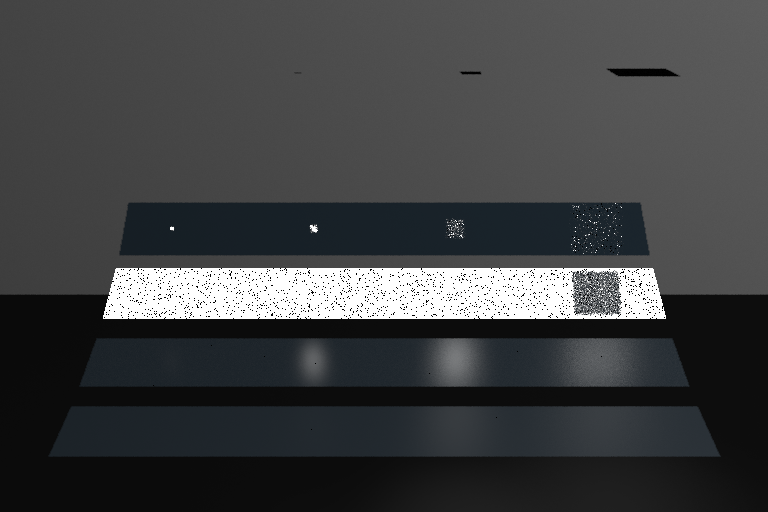
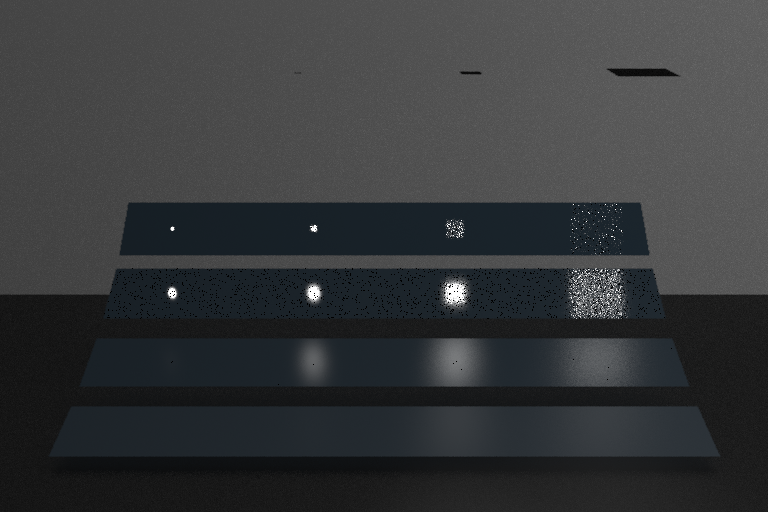
Good progress with MIS, platforms rendering correctly, light reflections too noisy, floor too dark

Changed region(s): [[0.125, 0.4062, 0.875, 0.625], [0.5625, 0.4375, 0.625, 0.4688]]

diff --git a/src/raytracer.cpp b/src/raytracer.cpp
@@ -1160,6 +1160,8 @@ glm::vec3 PathTracerFindColor(UniformGrid* grid, const Ray& ray, Scene* scene, C
 	float DNumerator = 0.1f;
 	float DDenominator = 0.1f;
 
+	float weight = 1.0f;
+
 	if (importanceSampling == "hemisphere")
 	{
 		brdf =
@@ -1220,7 +1222,7 @@ glm::vec3 PathTracerFindColor(UniformGrid* grid, const Ray& ray, Scene* scene, C
 					(intersection.hitObjectDiffuse / (float)M_PI) +
 					(intersection.hitObjectSpecular * ((intersection.hitObjectShininess + 2.0f) / (2.0f * (float)M_PI))) * spec;
 
-
+				weight = pSpec / pdf;
 
 			}
 			else
@@ -1260,7 +1262,9 @@ glm::vec3 PathTracerFindColor(UniformGrid* grid, const Ray& ray, Scene* scene, C
 			float pdfSpec = ((intersection.hitObjectShininess + 1.0f) / (2.0f * (float)M_PI)) *
 				std::pow(rDotWi, intersection.hitObjectShininess);
 
-			float pdf = pDiffuse * pdfDiffuse + pSpec * pdfSpec;
+			pdf = pDiffuse * pdfDiffuse + pSpec * pdfSpec;
+
+			weight = (pDiffuse * pdfDiffuse + pSpec * pdfSpec) > 0.0f ? (pDiffuse * pdfDiffuse) / (pDiffuse * pdfDiffuse + pSpec * pdfSpec) : 0.0f;
 		}
 		else if (intersection.brdf == "ggx")
 		{
@@ -1372,7 +1376,7 @@ glm::vec3 PathTracerFindColor(UniformGrid* grid, const Ray& ray, Scene* scene, C
 
 				brdf = fGGX +
 					(intersection.hitObjectDiffuse / (float)M_PI);
-
+				weight = (pDiffuse * (glm::dot(intersection.hitObjectNormal, wi) / (float)M_PI)) / pdf_ggx;
 
 
 			}
@@ -1448,6 +1452,8 @@ glm::vec3 PathTracerFindColor(UniformGrid* grid, const Ray& ray, Scene* scene, C
 
 				glm::vec3 fGGX = ((DNumerator / DDenominator) * fresnel * (Gv * Gv2)) / (4.0f * glm::dot(wi, intersection.hitObjectNormal) * glm::dot(wo, intersection.hitObjectNormal));
 
+				float D = DNumerator / DDenominator;
+
 				if (glm::dot(wi, intersection.hitObjectNormal) <= 0 || glm::dot(wo, intersection.hitObjectNormal) <= 0)
 				{
 					fGGX = glm::vec3(0.0f);
@@ -1456,6 +1462,8 @@ glm::vec3 PathTracerFindColor(UniformGrid* grid, const Ray& ray, Scene* scene, C
 
 				brdf =
 					(intersection.hitObjectDiffuse / (float)M_PI) + fGGX;
+
+				weight = (pDiffuse * (glm::dot(intersection.hitObjectNormal, wi) / (float)M_PI)) / ((1 - t) * (glm::dot(intersection.hitObjectNormal, wi) / (float)M_PI) + t * D * (glm::dot(intersection.hitObjectNormal, halfVector)) / (4.0f * glm::dot(halfVector, wi)));
 
 			}
 
@@ -1526,9 +1534,21 @@ glm::vec3 PathTracerFindColor(UniformGrid* grid, const Ray& ray, Scene* scene, C
 		}
 	}
 
+	//float weightBRDF = 1.0f;
 
-	float weightBRDF = pdf_ggx * pdf_ggx / (pdf_ggx * pdf_ggx + pdfNEE * pdfNEE + 1e-6f);
-	throughput *= brdf * std::max(glm::dot(intersection.hitObjectNormal, w_i), 0.0f) * weightBRDF;
+	//if (intersection.brdf == "ggx" && useNEE == "mis")
+	//{
+	//	weightBRDF = pdf_ggx * pdf_ggx / (pdf_ggx * pdf_ggx + pdfNEE * pdfNEE + 1e-6f);
+	//}
+	//else if (intersection.brdf == "phong" && useNEE == "mis")
+	//{
+	//	weightBRDF = pdf * pdf / (pdf * pdf + pdfNEE * pdfNEE + 1e-6f);
+	//}
+	//else
+	//{
+	//	weightBRDF = 1.0f;
+	//}
+	throughput *= brdf * std::max(glm::dot(intersection.hitObjectNormal, w_i), 0.0f) * weight;
 
 	return accumCol += PathTracerFindColor(grid, secondaryRay, scene, camera, depth + 1, samples, stratify, secondaryIntersection, useNEE, useRR, throughput, importanceSampling, secondaryIntersection.brdf);
 
